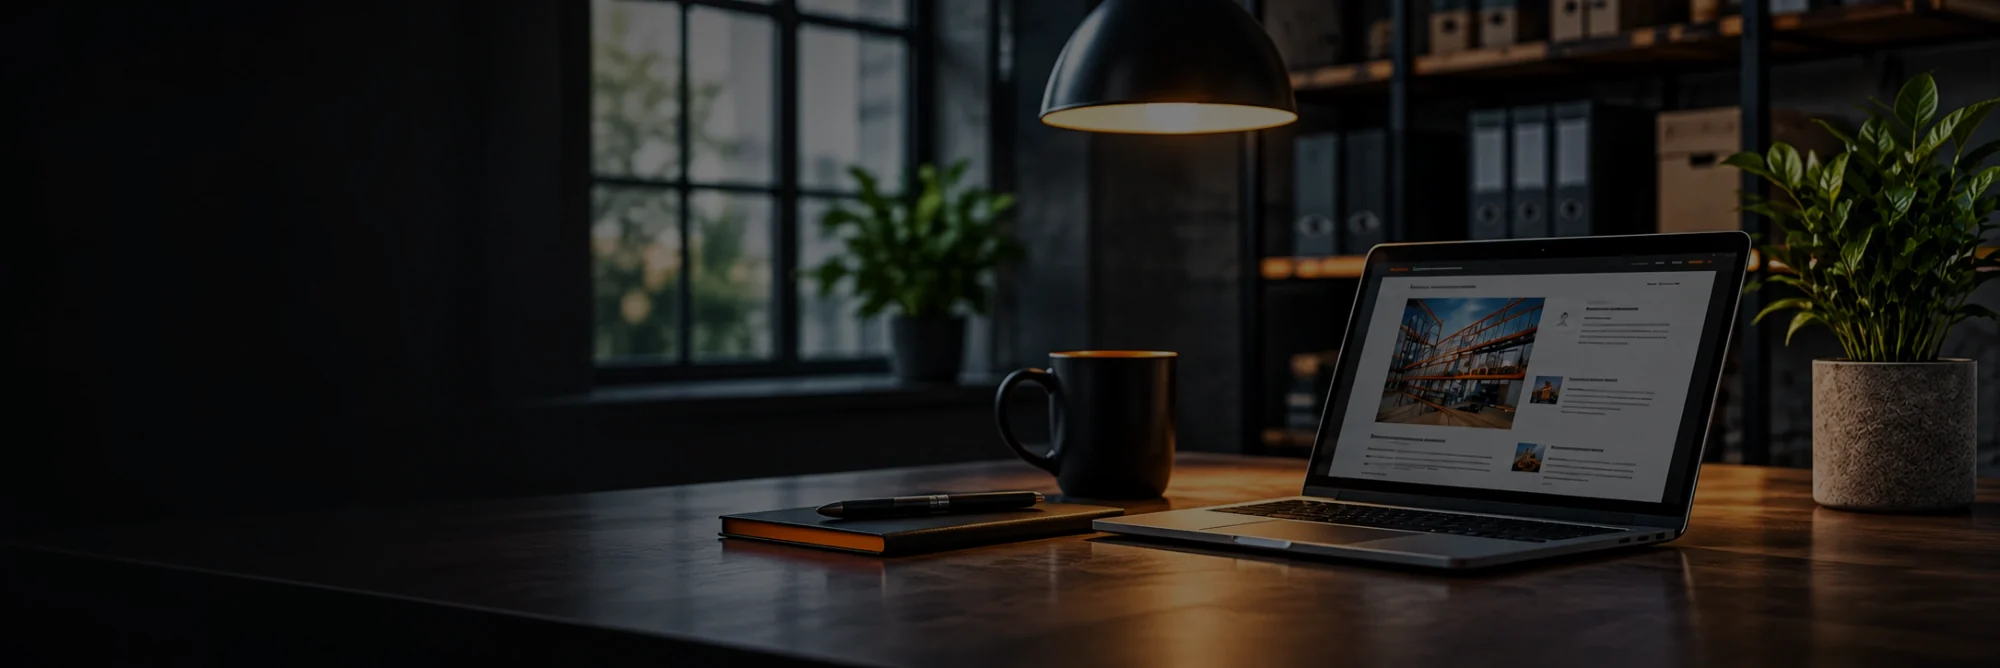
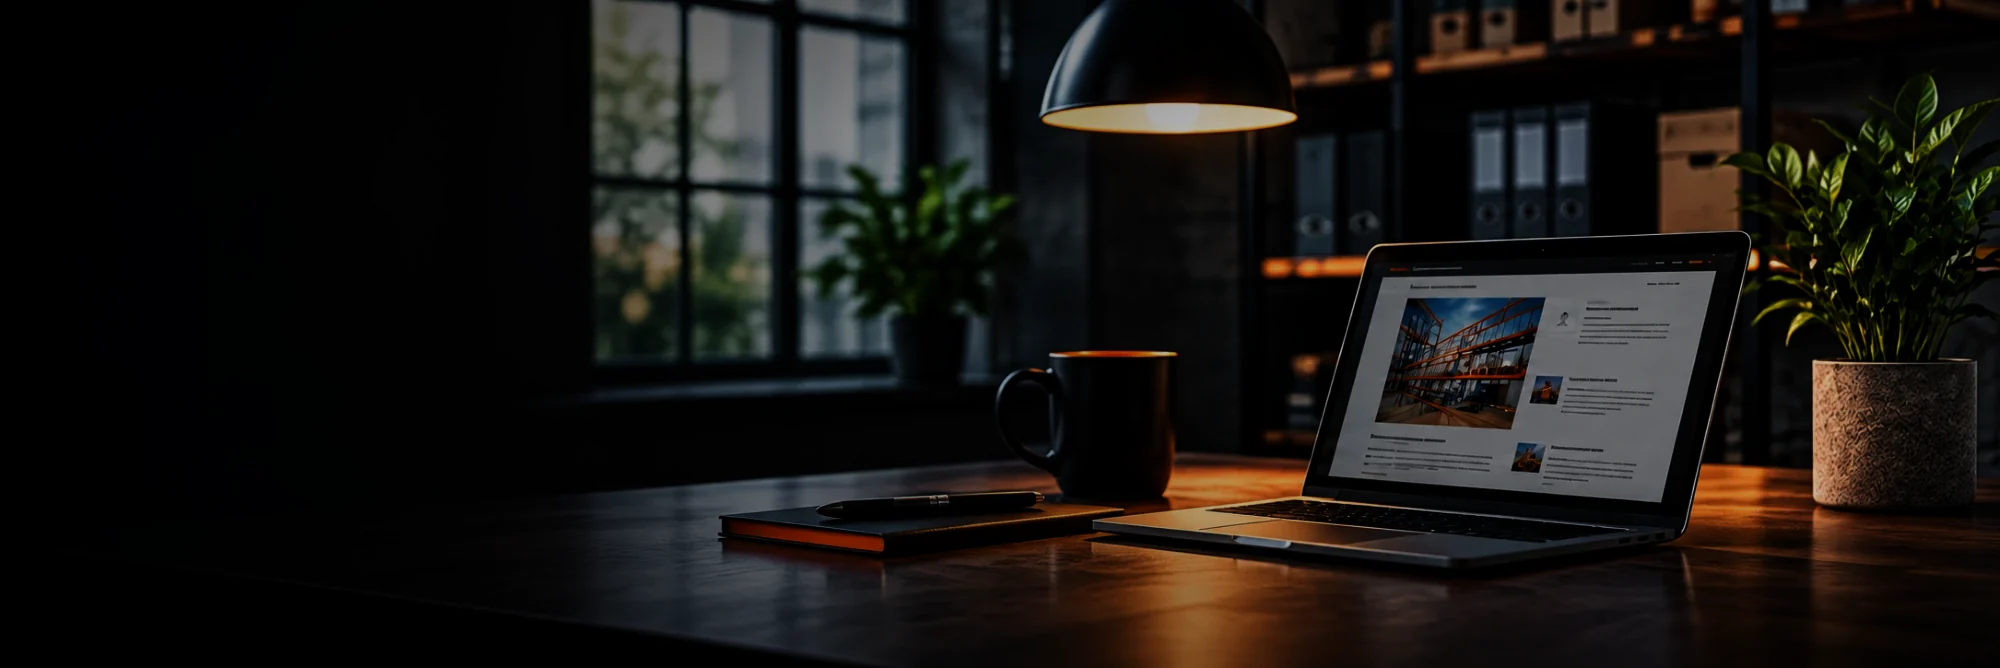
Блог: усилено затемнение фото hero

diff --git a/blog.html b/blog.html
@@ -145,7 +145,7 @@
 </header>
 
 <main>
-  <section class="sv-hero sv-hero--side sv-hero--bl" style="--hero:url('../img/svc/bl-hero.webp?v=6')">
+  <section class="sv-hero sv-hero--side sv-hero--bl" style="--hero:url('../img/svc/bl-hero.webp?v=8')">
     <div class="container sv-hero__inner">
       <div class="sv-hero__main">
         <nav class="crumbs" aria-label="Навигационная цепочка"><ol><li><a href="/">Главная</a></li><li aria-current="page">Блог</li></ol></nav>
